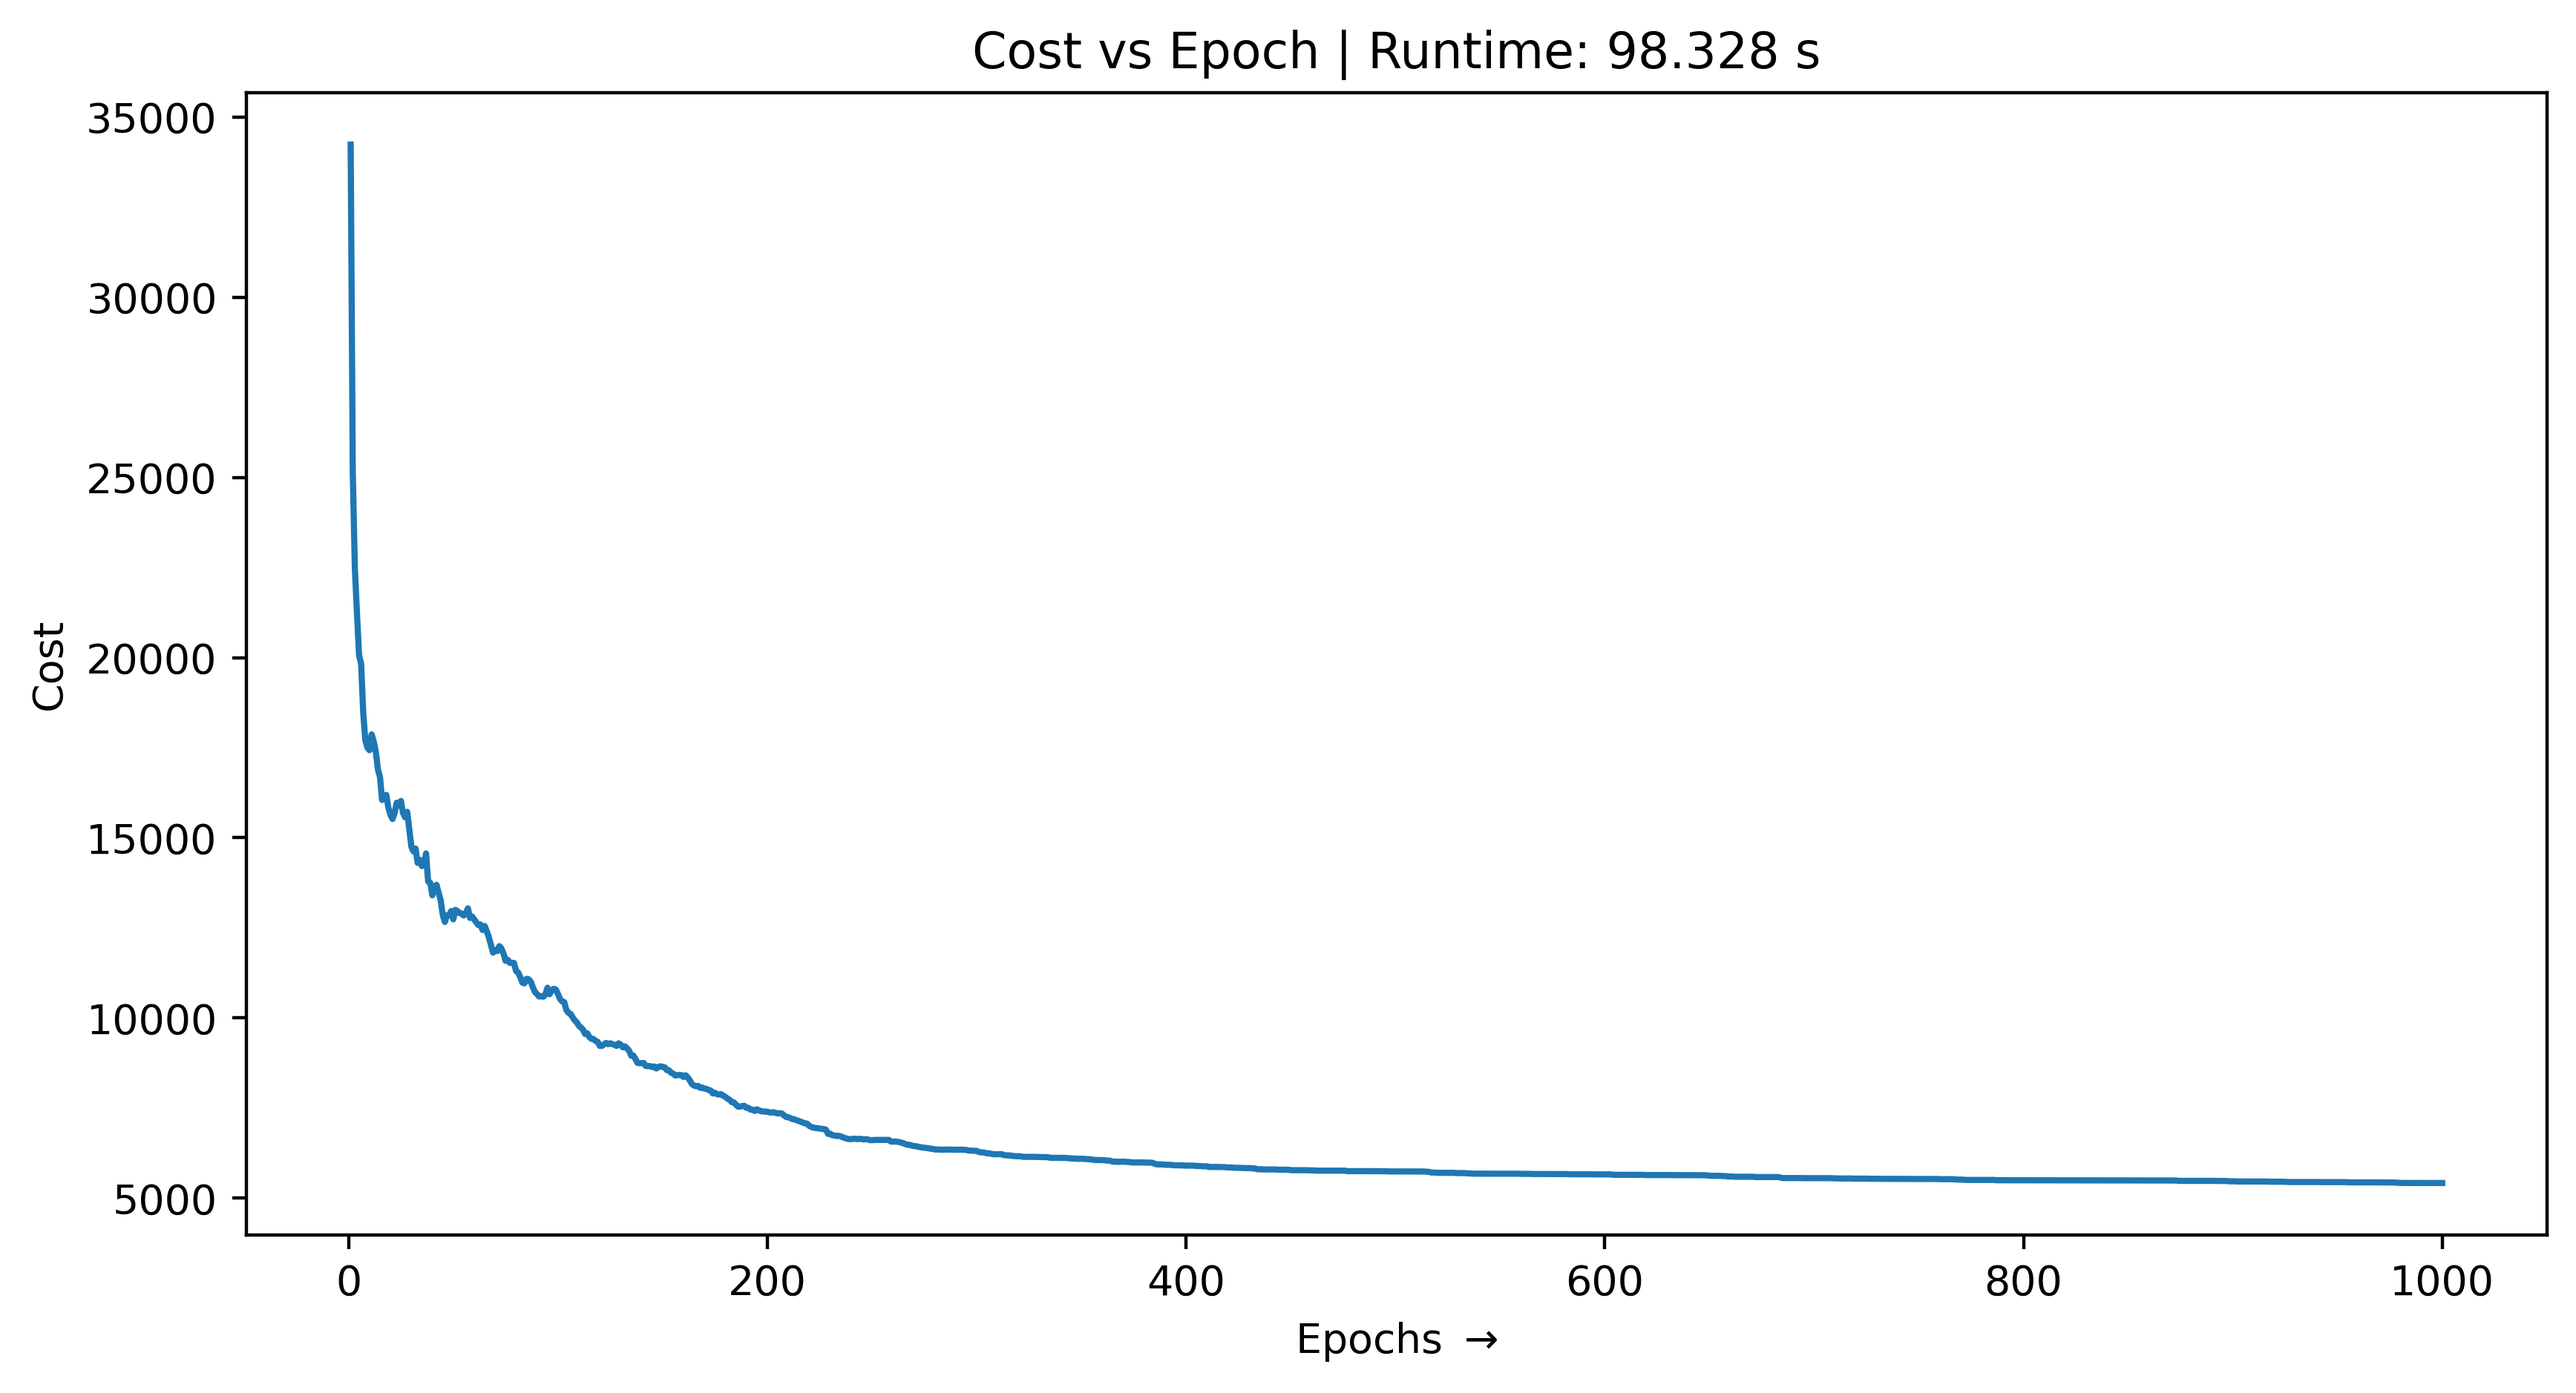
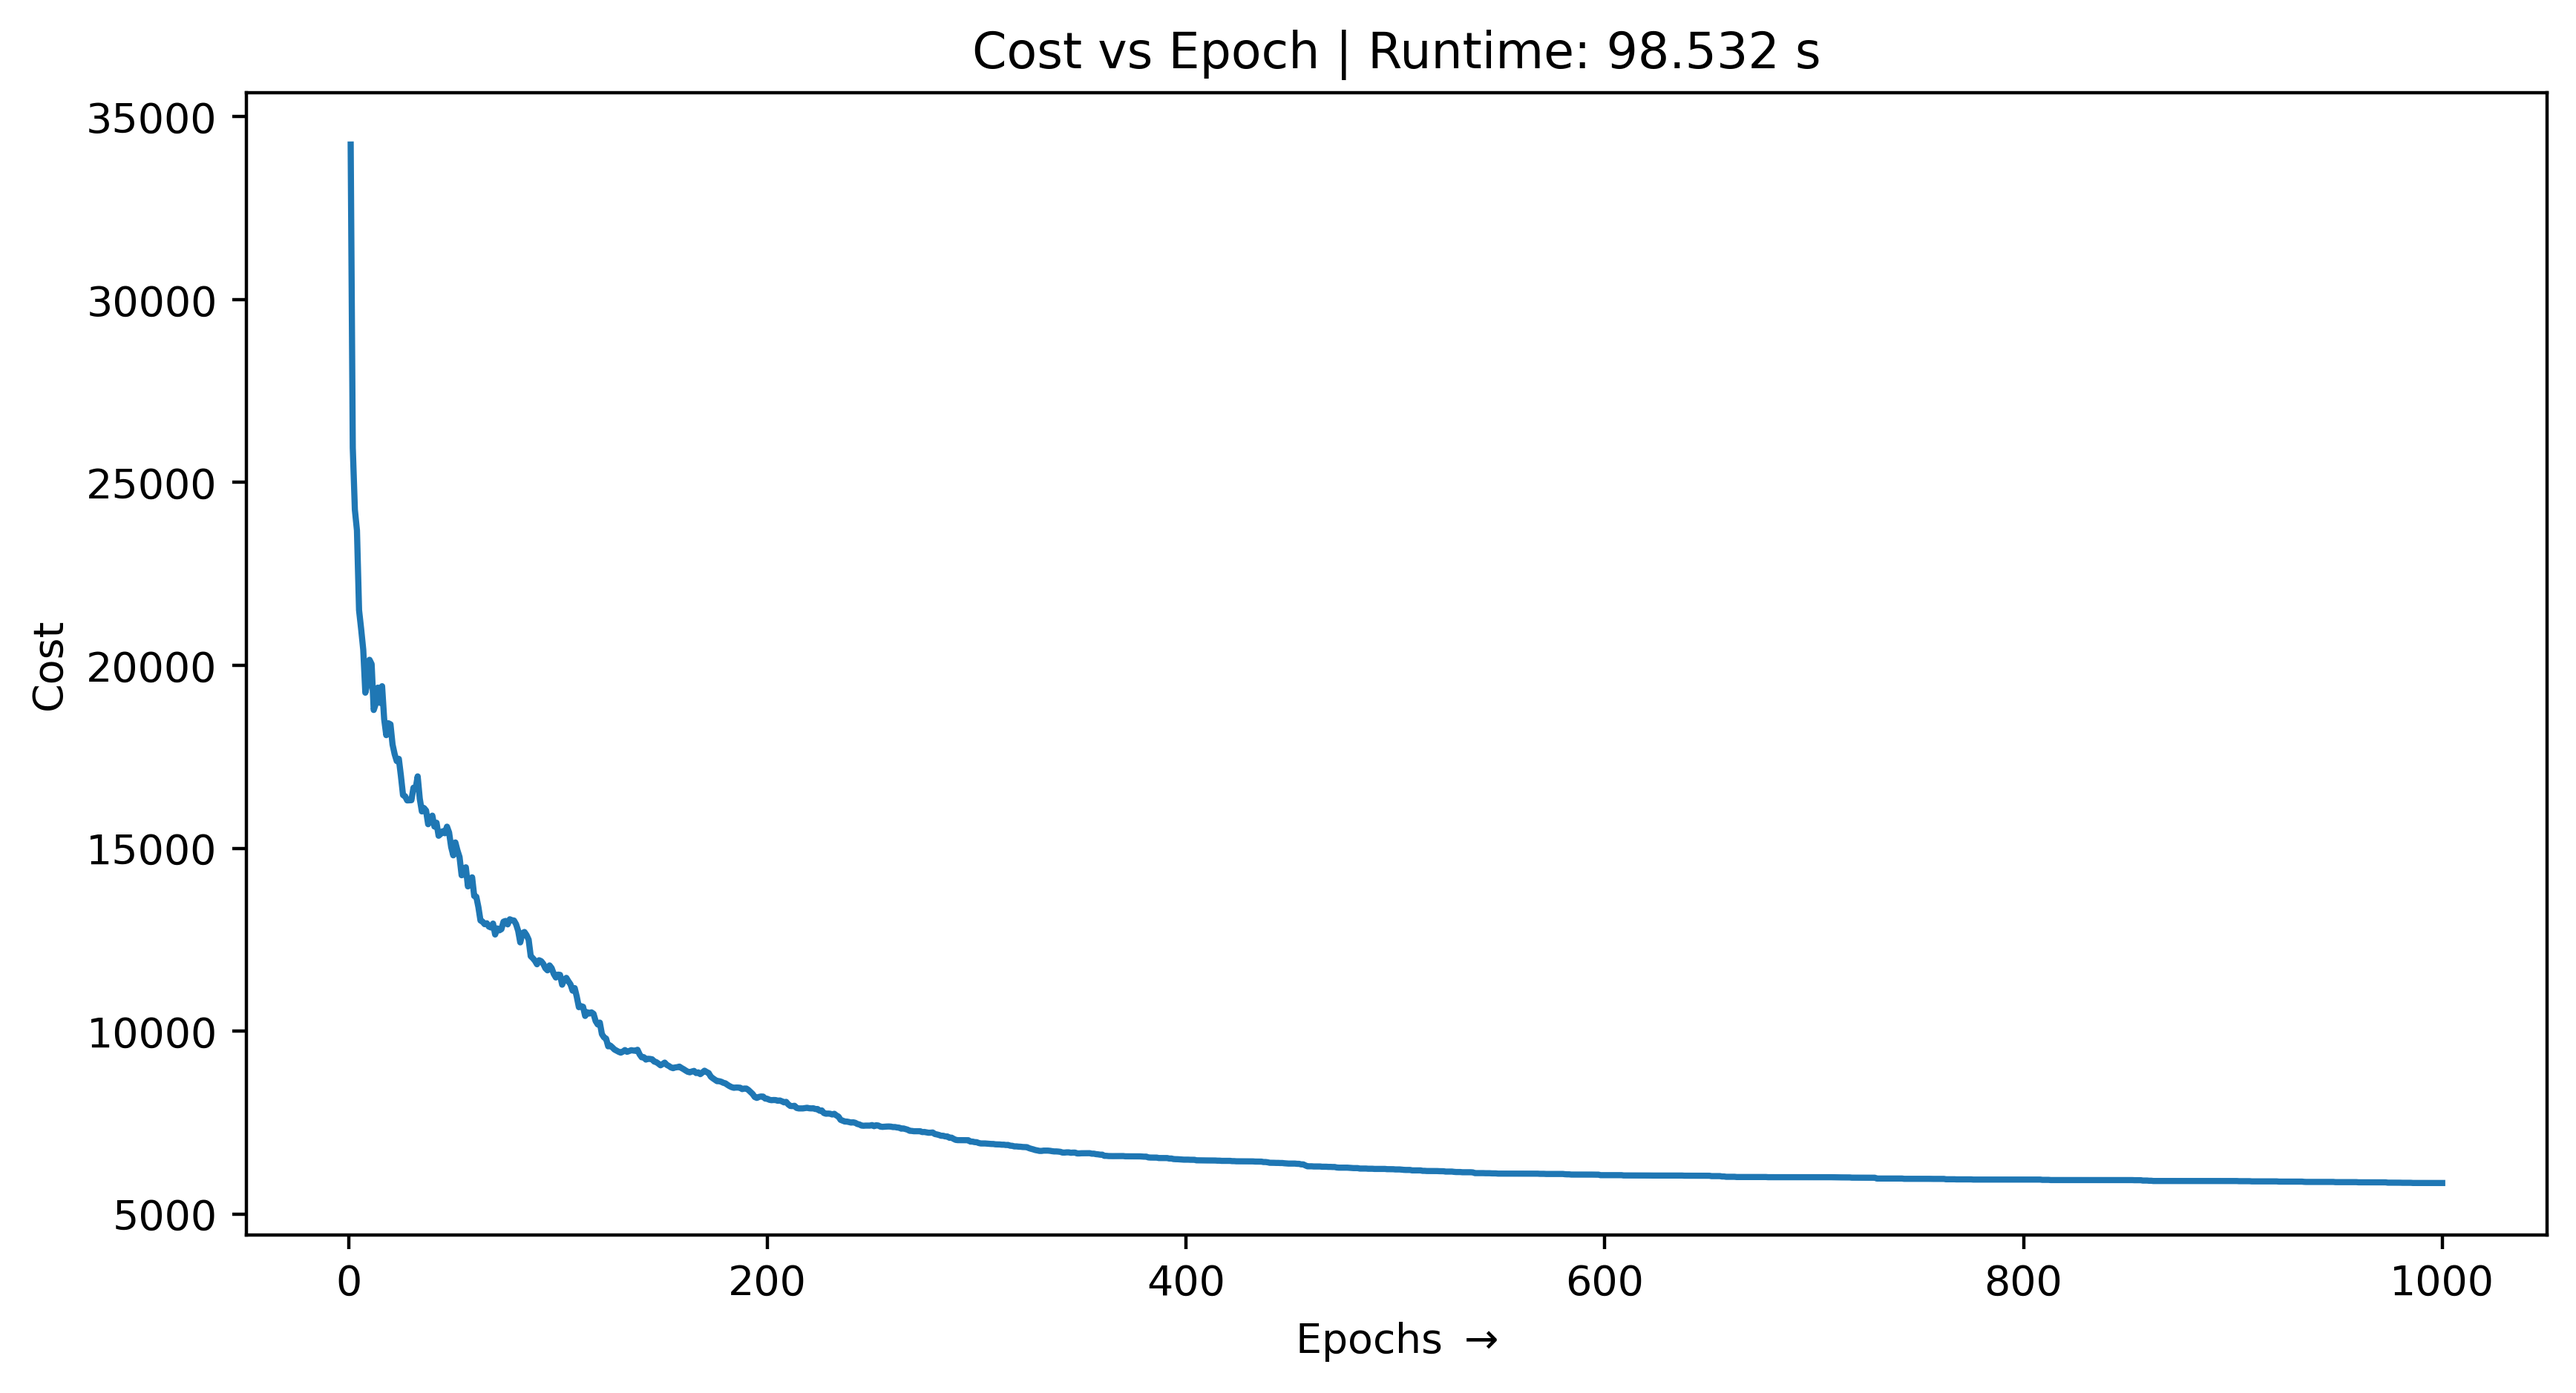
solver_summary can log additional perf parameters

diff --git a/code/simulated_annealing/simple_simulated_annealing.py b/code/simulated_annealing/simple_simulated_annealing.py
@@ -2,14 +2,13 @@
 # Imports
 ###########################################################################
 # Standard library imports
-from pickle import TRUE
+from datetime import datetime
 import time
 import numpy as np
 import matplotlib.pyplot as plt
 import os
 import sys
 
-from numpy.core.numeric import True_
 sys.path.insert(0, os.getcwd())  # Insert this when you have any local imports
 
 ###########################################################################
@@ -21,6 +20,9 @@ OUTPUT_DIR = os.path.join(
 
 
 def function_calls(f):
+    '''
+        Count number of times a function was called. To be used as decorator.
+    '''
     def wrapped(*args, **kwargs):
         wrapped.calls += 1
         return f(*args, **kwargs)
@@ -69,10 +71,10 @@ def get_total_cost(node_list, cost_matrix):
     '''
     cost = 0.0
     for first, second in zip(node_list[:-1], node_list[1:]):
-        # Distance between successive exhibits are added
+        # Distance between successive nodes are added
         cost += get_cost_between_two_points(first, second, cost_matrix)
 
-    # Distance between the first and the last exhibits is added
+    # Distance between the first and the last nodes is added
     cost += get_cost_between_two_points(
         node_list[0], node_list[-1], cost_matrix
     )
@@ -260,7 +262,10 @@ class SimpleSimulatedAnnealing:
             Additional arguments for `func0`
     '''
 
-    def __init__(self, func0, x0, T0, alpha, epochs, N_per_epochs, **kwargs):
+    def __init__(
+        self, func0, x0, T0, alpha, epochs, N_per_epochs, 
+        cooling_func='simp', **kwargs
+    ):
         '''
             Parameters:
             -----------
@@ -276,9 +281,13 @@ class SimpleSimulatedAnnealing:
                 Number of epochs
             N_per_epochs: (int)
                 Number of iterations per epoch
+            cooling_func: (string), default=simple
+                Type of cooling function to be used
+                Choose from: ['simp', 'exp']
             **kwargs:
                 Additional arguments for `func0`
         '''
+        # Initialize
         self.func0 = func0
         self.cost0 = round(self.func0(x0, **kwargs), 3)
         self.func0_calls = 0  # Set number of function calls to zero
@@ -287,6 +296,12 @@ class SimpleSimulatedAnnealing:
         self.alpha = alpha
         self.epochs = epochs
         self.N_per_epochs = N_per_epochs
+
+        self.cooling_funcs_dict = dict(
+            simp=self.simple_cooling_func, exp=self.exponential_cooling_func
+        )
+
+        self.cooling_func = self.cooling_funcs_dict[cooling_func]
 
         self.len_x0 = len(x0)
 
@@ -300,7 +315,7 @@ class SimpleSimulatedAnnealing:
 
         self.func0_calls = self.func0.calls
 
-    def cooling_func(self, T):
+    def simple_cooling_func(self, T, epoch_num):
         '''
             A simple cooling function.
 
@@ -308,6 +323,8 @@ class SimpleSimulatedAnnealing:
             -----------
             T: (float)
                 Current temperature
+            epoch_num: (int)
+                Current epoch number
 
             Returns:
             --------
@@ -315,6 +332,25 @@ class SimpleSimulatedAnnealing:
                 Cooled temperature
         '''
         T_cooled = T * self.alpha
+        return T_cooled
+
+    def exponential_cooling_func(self, T, epoch_num):
+        '''
+            A simple cooling function.
+
+            Parameters:
+            -----------
+            T: (float)
+                Current temperature
+            epoch_num: (int)
+                Current epoch number
+
+            Returns:
+            --------
+            T_cooled: (float)
+                Cooled temperature
+        '''
+        T_cooled = T * np.math.exp(-self.alpha * epoch_num)
         return T_cooled
 
     def plot_cost_hist(self, ext='', save=True):
@@ -348,6 +384,7 @@ class SimpleSimulatedAnnealing:
             plt.savefig(
                 fname, dpi=400, bbox_inches='tight'
             )
+            print(f'\nPlot saved at: {fname}')
 
         plt.show()
 
@@ -376,9 +413,9 @@ class SimpleSimulatedAnnealing:
             # Store history of cost
             cost_hist.append(cost0)
 
-            print(f'Epoch: {epoch} | Cost = {round(cost0, 3)}')
+            print(f'Epoch: {epoch} | Cost = {round(cost0, 3)}', end='\r')
 
-            T = self.cooling_func(T)
+            T = self.cooling_func(T, epoch)
 
             for i in range(self.N_per_epochs):
                 # Exchange two elements and get a new neighbour solution
@@ -393,7 +430,7 @@ class SimpleSimulatedAnnealing:
                 if cost1 < cost0:
                     cost0 = cost1
                 else:
-                    if np.random.uniform() < np.exp((cost0 - cost1) / T):
+                    if np.random.uniform() < np.math.exp((cost0 - cost1) / T):
                         cost0 = cost1
                     else:
                         # Re-swap
@@ -406,6 +443,79 @@ class SimpleSimulatedAnnealing:
 
         cost_hist = np.array(cost_hist)
         return x, cost_hist, round(rt, 3)
+
+    def solver_summary(self, ext='', save=True):
+        '''
+            Prints the solver summary, and stores it in a `.npz` file.
+
+            Parameters:
+            -----------
+            optim_solution: (Class - SimpleSimulatedAnnealing)
+                Instance of the `SimpleSimulatedAnnealing` class
+            ext: (string), default=''
+                Add a prefix to the `.npz` file before saving it
+            save = (Boolean), default=True
+                If True, saves the metadata in a `.npz` file
+        '''
+        try:
+            logname = os.path.join(OUTPUT_DIR, 'solver_summary.log')
+            if os.path.exists(logname):
+                os.remove(logname)
+
+            outputFile = open(logname, 'a')
+
+            def printing(text):
+                print(text)
+                if outputFile:
+                    outputFile.write(f'{text}\n')
+
+            rt, func0_calls = self.rt, self.func0.calls
+            printing('\n===================================================')
+            printing('Solver Summary:')
+            printing('===================================================')
+            dt_string = datetime.now().strftime("%d/%m/%Y %H:%M:%S")
+            pc_name = os.environ['COMPUTERNAME']
+            printing(f'\nRun on: {dt_string} | PC: {pc_name}')
+            printing(f'\nSolved in: {rt} s')
+            printing(f'Number of cost function calls: {func0_calls}')
+
+            x0_len = len(self.x0)
+            printing(f'\nTotal number of nodes: {x0_len}')
+            permut = SimpleSimulatedAnnealing.factorial_apprx(x0_len)
+            printing(f'Total permutations: {permut}')
+
+            x0, xf = self.x0, self.xf
+            cost0, costf = self.cost0, self.costf
+            printing(
+                f'\nInitial Cost: {cost0} ---> Optimized Cost: {costf}'
+            )
+            reduction_in_cost = self.reduction_in_cost
+            printing(f'Reduction in cost (in %): {reduction_in_cost} %')
+
+            T0, alpha = self.T0, self.alpha
+            epochs = self.epochs
+            N_per_epochs = self.N_per_epochs
+            cooling_func = self.cooling_func.__name__
+            printing(f'\nT0 = {T0} | alpha = {alpha}')
+            printing(f'epochs = {epochs} | iter/epoch = {N_per_epochs}')
+            printing(f'Cooling Function: {cooling_func}()')
+
+            printing('\n===================================================\n')
+
+            print(f'Log file saved at: {logname}')
+
+            if save:
+                fname = os.path.join(OUTPUT_DIR, f'{ext}SSA_results.npz')
+                np.savez(
+                    fname, rt=rt, func0_calls=func0_calls, x0_len=x0_len,
+                    permut=permut, x0=x0, cost0=cost0, xf=xf, costf=costf,
+                    reduction_in_cost=reduction_in_cost, T0=T0, alpha=alpha,
+                    epochs=epochs, N_per_epochs=N_per_epochs, 
+                    cooling_func=cooling_func
+                )
+                print(f'\nSummary data saved at: {fname}')
+        finally:
+            outputFile.close() 
 
     @staticmethod
     def factorial_apprx(N):
@@ -430,50 +540,6 @@ class SimpleSimulatedAnnealing:
 
         return res
 
-    @staticmethod
-    def solver_metadata(optim_solution, ext='', save=True):
-        '''
-            Prints the solver metadata, and stores it in a `.npz` file.
-
-            Parameters:
-            -----------
-            optim_solution: (Class - SimpleSimulatedAnnealing)
-                Instance of the `SimpleSimulatedAnnealing` class
-            ext: (string), default=''
-                Add a prefix to the `.npz` file before saving it
-            save = (Boolean), default=True
-                If True, saves the metadata in a `.npz` file
-        '''
-        rt, func0_calls = optim_solution.rt, optim_solution.func0.calls
-        print(f'\nSolved in: {rt} s')
-        print(f'Number of cost function calls: {func0_calls}')
-
-        x0_len = len(optim_solution.x0)
-        print(f'\nTotal number of nodes: {x0_len}')
-        permut = SimpleSimulatedAnnealing.factorial_apprx(x0_len)
-        print(f'Total permutations: {permut}')
-
-        x0, xf = optim_solution.x0, optim_solution.xf
-        cost0, costf = optim_solution.cost0, optim_solution.costf
-        print(
-            f'\nInital Cost: {cost0} ---> Optimized Cost: {costf}'
-        )
-        reduction_in_cost = optim_solution.reduction_in_cost
-        print(f'Redcution in cost (in %): {reduction_in_cost} %')
-
-        T0, alpha = optim_solution.T0, optim_solution.alpha
-        epochs = optim_solution.epochs
-        N_per_epochs = optim_solution.N_per_epochs
-
-        if save:
-            fname = os.path.join(OUTPUT_DIR, f'{ext}SSA_results.npz')
-            np.savez(
-                fname, rt=rt, func0_calls=func0_calls, x0_len=x0_len,
-                permut=permut, x0=x0, cost0=cost0, xf=xf, costf=costf,
-                reduction_in_cost=reduction_in_cost, T0=T0, alpha=alpha,
-                epochs=epochs, N_per_epochs=N_per_epochs
-            )
-
 
 ###########################################################################
 # Main Code
@@ -482,7 +548,7 @@ if __name__ == '__main__':
     from code.data_input.base_input import BaseInputLoader
 
     # Set-up parameters for the Simulated Annealing Algorithm
-    T0, alpha, epochs, N_per_epochs = [40, 0.99, 1000, 300]
+    T0, alpha, epochs, N_per_epochs = [50, 0.99, 1000, 300]
 
     # ---------------------------------------------------------------------
     # Generate random coordinates
@@ -515,9 +581,10 @@ if __name__ == '__main__':
     # Set up Simulated Annealing Class
     optim_solution = SimpleSimulatedAnnealing(
         func0=get_total_cost, x0=initial_soln, T0=T0, alpha=alpha,
-        epochs=epochs, N_per_epochs=N_per_epochs, cost_matrix=cost_matrix
+        epochs=epochs, N_per_epochs=N_per_epochs, cost_matrix=cost_matrix,
+        cooling_func='simp'
     )
 
-    SAVE = True
-    SimpleSimulatedAnnealing.solver_metadata(optim_solution, save=SAVE)
+    SAVE = False
+    optim_solution.solver_summary(save=SAVE)
     optim_solution.plot_cost_hist(ext='node_', save=SAVE)
